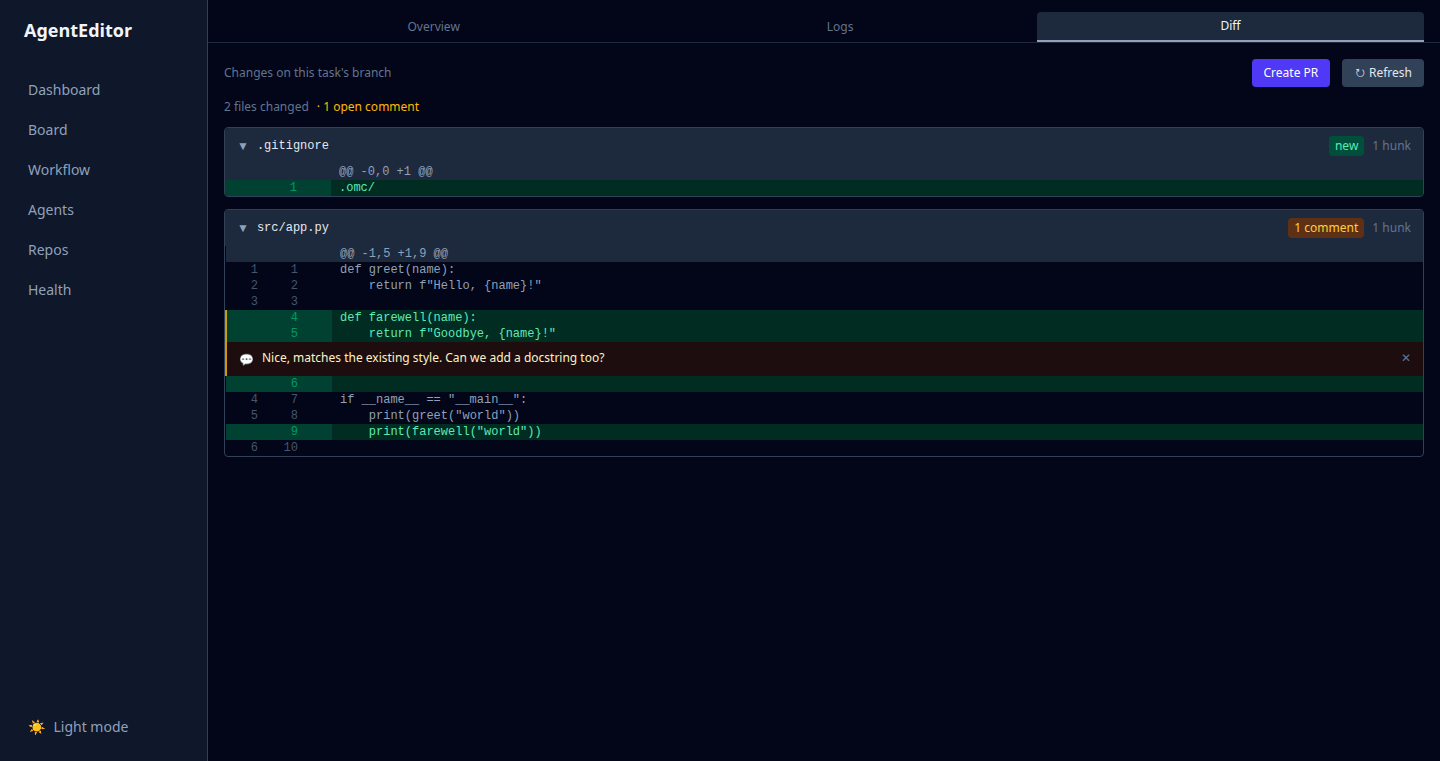
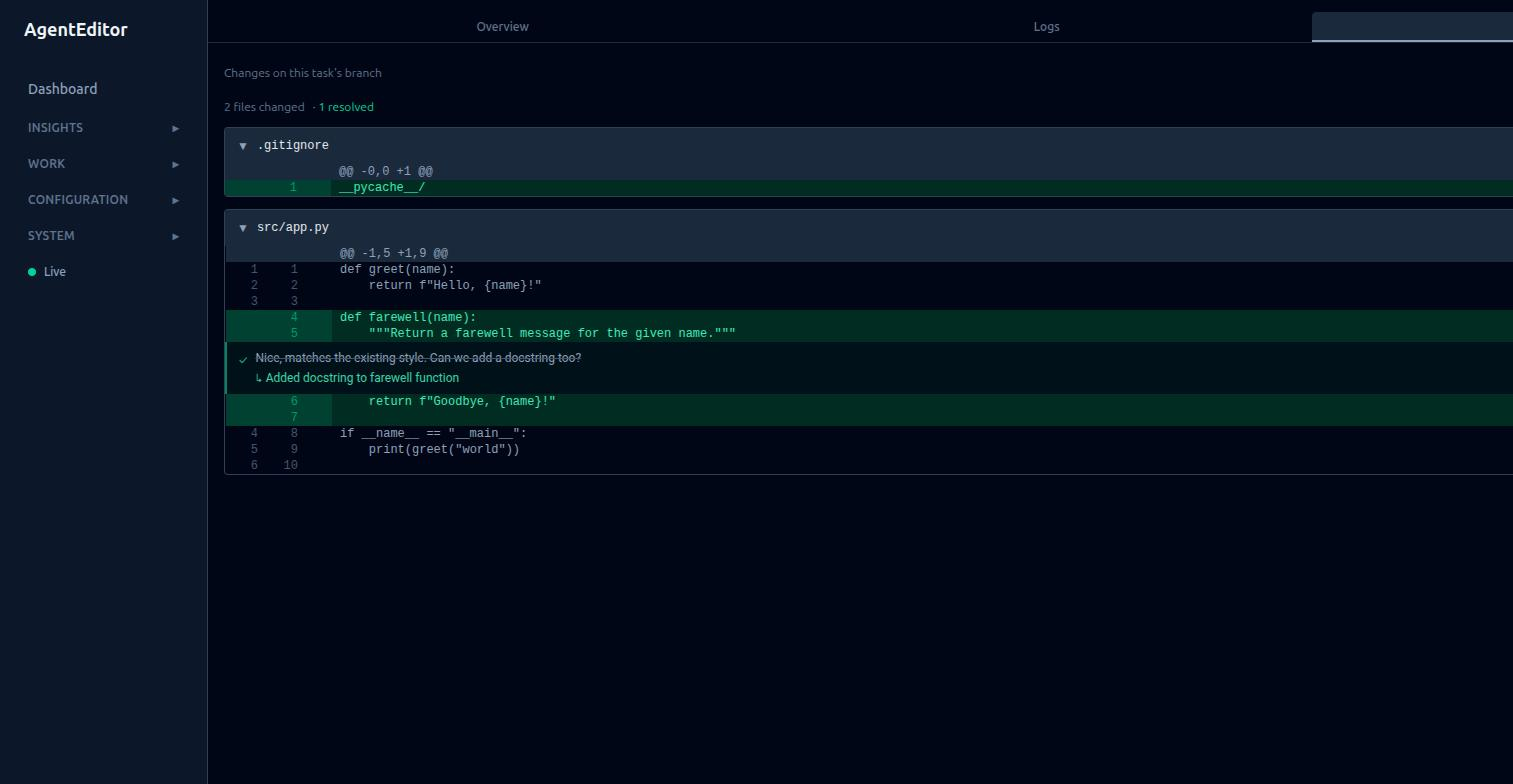
Refresh README/docs screenshots and hero GIF; add Chat and dashboard pages
Recaptured all screenshots against a clean isolated demo instance with real
agent runs, and added three previously undocumented pages: Cost & Usage,
Agent Performance, and the interactive Chat terminal.

Also fixes a real bug found while capturing Chat: the Vite dev-server proxy
was missing ws: true on the /api entry, so the terminal WebSocket silently
never connected under ./dev.sh dev (only worked behind Docker/nginx).

diff --git a/frontend/vite.config.ts b/frontend/vite.config.ts
@@ -8,7 +8,7 @@ export default defineConfig(({ command }) => ({
   server: {
     port: 5173,
     proxy: {
-      '/api': 'http://localhost:8080',
+      '/api': { target: 'http://localhost:8080', ws: true },
       '/ws': { target: 'ws://localhost:8080', ws: true, changeOrigin: true },
     },
   },

diff --git a/docs/screenshots.md b/docs/screenshots.md
@@ -99,13 +99,11 @@ google-chrome --headless --disable-gpu --no-sandbox --window-size=1440,900 \
   --screenshot=docs/img/board.png http://localhost:5173/board
 ```
 
-Note: the dashboard is now split into three routes — `/` (Overview: label
+Note: the dashboard is split into three routes — `/` (Overview: label
 counts, active agents, intervention queue), `/dashboard/usage` (Cost &
-Usage), and `/dashboard/performance` (Agent Performance). `docs/img/dashboard.png`
-currently only captures the Overview page at `/`. Capturing
-`docs/img/dashboard-usage.png` and `docs/img/dashboard-performance.png` for
-the other two routes with the same single-shot approach is a nice-to-have
-follow-up, not required.
+Usage), and `/dashboard/performance` (Agent Performance). Capture all three
+with the same single-shot approach: `docs/img/dashboard.png`,
+`docs/img/dashboard-usage.png`, `docs/img/dashboard-performance.png`.
 
 The task detail page's **Logs** and **Diff** tabs are plain `useState`, not a
 URL param — a single-shot load always lands on Overview. Use
@@ -130,6 +128,20 @@ verbatim in your *own* shell command), `pkill -f` matches against full
 command lines — including the invoking shell's own argv — and can kill your
 current shell/session instead of (or in addition to) the target. Prefer
 `pkill -f` patterns that can't match your own invocation, or target by PID.
+
+**Chat (`docs/img/chat.png`)**: the interactive terminal is a real PTY over a
+WebSocket (`/api/v1/chat/sessions/{id}/terminal`), not reachable by
+`cdp_shot.py`'s click-then-capture approach — drive it with an interactive
+browser tool instead (click the session in the sidebar to attach, type a
+real question, wait for the reply, then screenshot). Two gotchas:
+- Under `./dev.sh dev`, the Vite dev-server proxy needs `ws: true` on the
+  `/api` entry in `vite.config.ts`, not just on `/ws` — without it the
+  terminal WebSocket silently never connects (blank pane, no error). Fixed
+  in this repo; if you ever see a blank Chat pane in local dev, this is the
+  first thing to check.
+- The Claude CLI's welcome banner shows your real name, account
+  email/org, and a `claude.ai/code/session_...` URL — blur those three
+  lines before publishing, same as the Health page paths below.
 
 ## 5. Blur any leaked local paths
 

diff --git a/docs/overview.md b/docs/overview.md
@@ -147,18 +147,18 @@ The dispatcher polls the database every 5 seconds for tasks whose label matches 
 
 ![Dashboard](img/dashboard.png)
 
-<!--
-  NOTE: this screenshot predates the dashboard split into Overview /
-  Cost & Usage / Performance pages and now only represents the Overview
-  page (label counts, active agents, intervention queue). It no longer
-  shows the cost/usage or per-agent-config performance tables, which moved
-  to /dashboard/usage and /dashboard/performance respectively. Refreshing
-  this screenshot, and adding new ones for the Cost & Usage and Agent
-  Performance pages, is a nice-to-have follow-up per docs/screenshots.md
-  (requires a clean seeded DB with some run history); not blocking for
-  this change.
--->
+**Cost & Usage**
+
+![Cost & Usage](img/dashboard-usage.png)
+
+**Agent Performance**
+
+![Agent Performance](img/dashboard-performance.png)
 
 **Health**
 
 ![Health page](img/health.png)
+
+**Chat**
+
+![Interactive chat terminal](img/chat.png)

diff --git a/CHANGELOG.md b/CHANGELOG.md
@@ -19,6 +19,9 @@ triggers the "Release" workflow the same way.
 
 ## [Unreleased]
 
+### Fixed
+- **Chat terminal WebSocket under `./dev.sh dev`** — the Vite dev-server proxy was missing `ws: true` on the `/api` entry, so the interactive chat terminal's WebSocket (`/api/v1/chat/sessions/{id}/terminal`) silently never connected in local dev mode (blank terminal pane, no error); only worked when running behind Docker/nginx. `frontend/vite.config.ts` now enables WebSocket upgrades on `/api` as well as `/ws`.
+
 ## [0.16.0] - 2026-08-21
 
 ### Added
